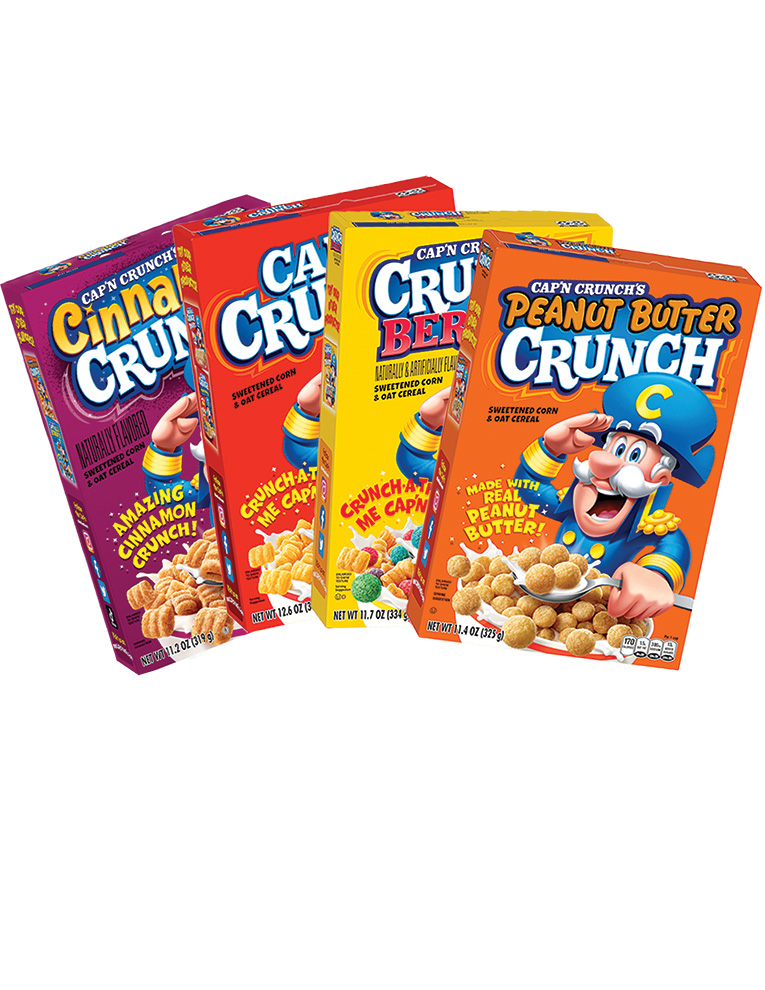
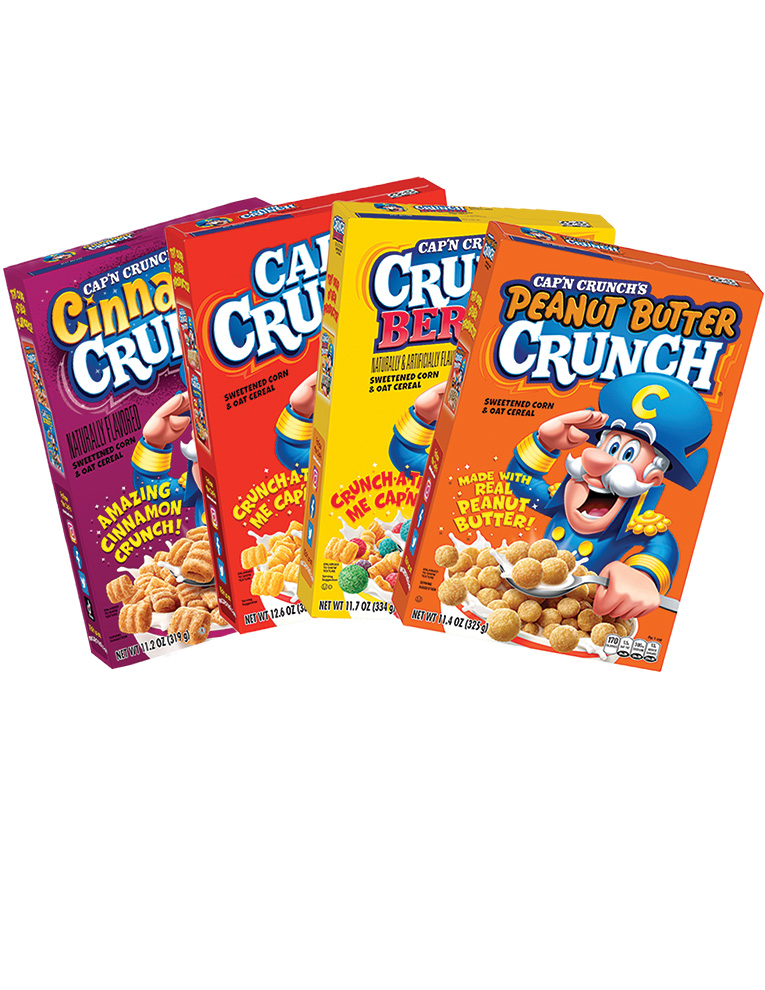
product-showcase

Changed region(s): [[0.0, 0.1818, 1.0, 0.697]]

diff --git a/project/product-showcase-site/index.html b/project/product-showcase-site/index.html
@@ -8,6 +8,15 @@
         <link href="css/style.css" rel="stylesheet">
     </head>
     <body>
-        
+        <div class="yellow">
+            <div class="centered-column">
+                <h1>Cap'n Crunch</h1>
+                <img
+                    src="images/product.jpg"
+                    alt="Cap'n Crunch cereal pack"
+                    id="cereal-pack"
+                >
+            </div>
+        </div>
     </body>
 </html>

diff --git a/project/product-showcase-site/css/style.css b/project/product-showcase-site/css/style.css
@@ -6,3 +6,9 @@ body {
     margin: 0px;
     font-family: sans-serif;
 }
+
+.centered-column {
+    width: 600px;
+    margin: 0px auto;
+    text-align: center;
+}
